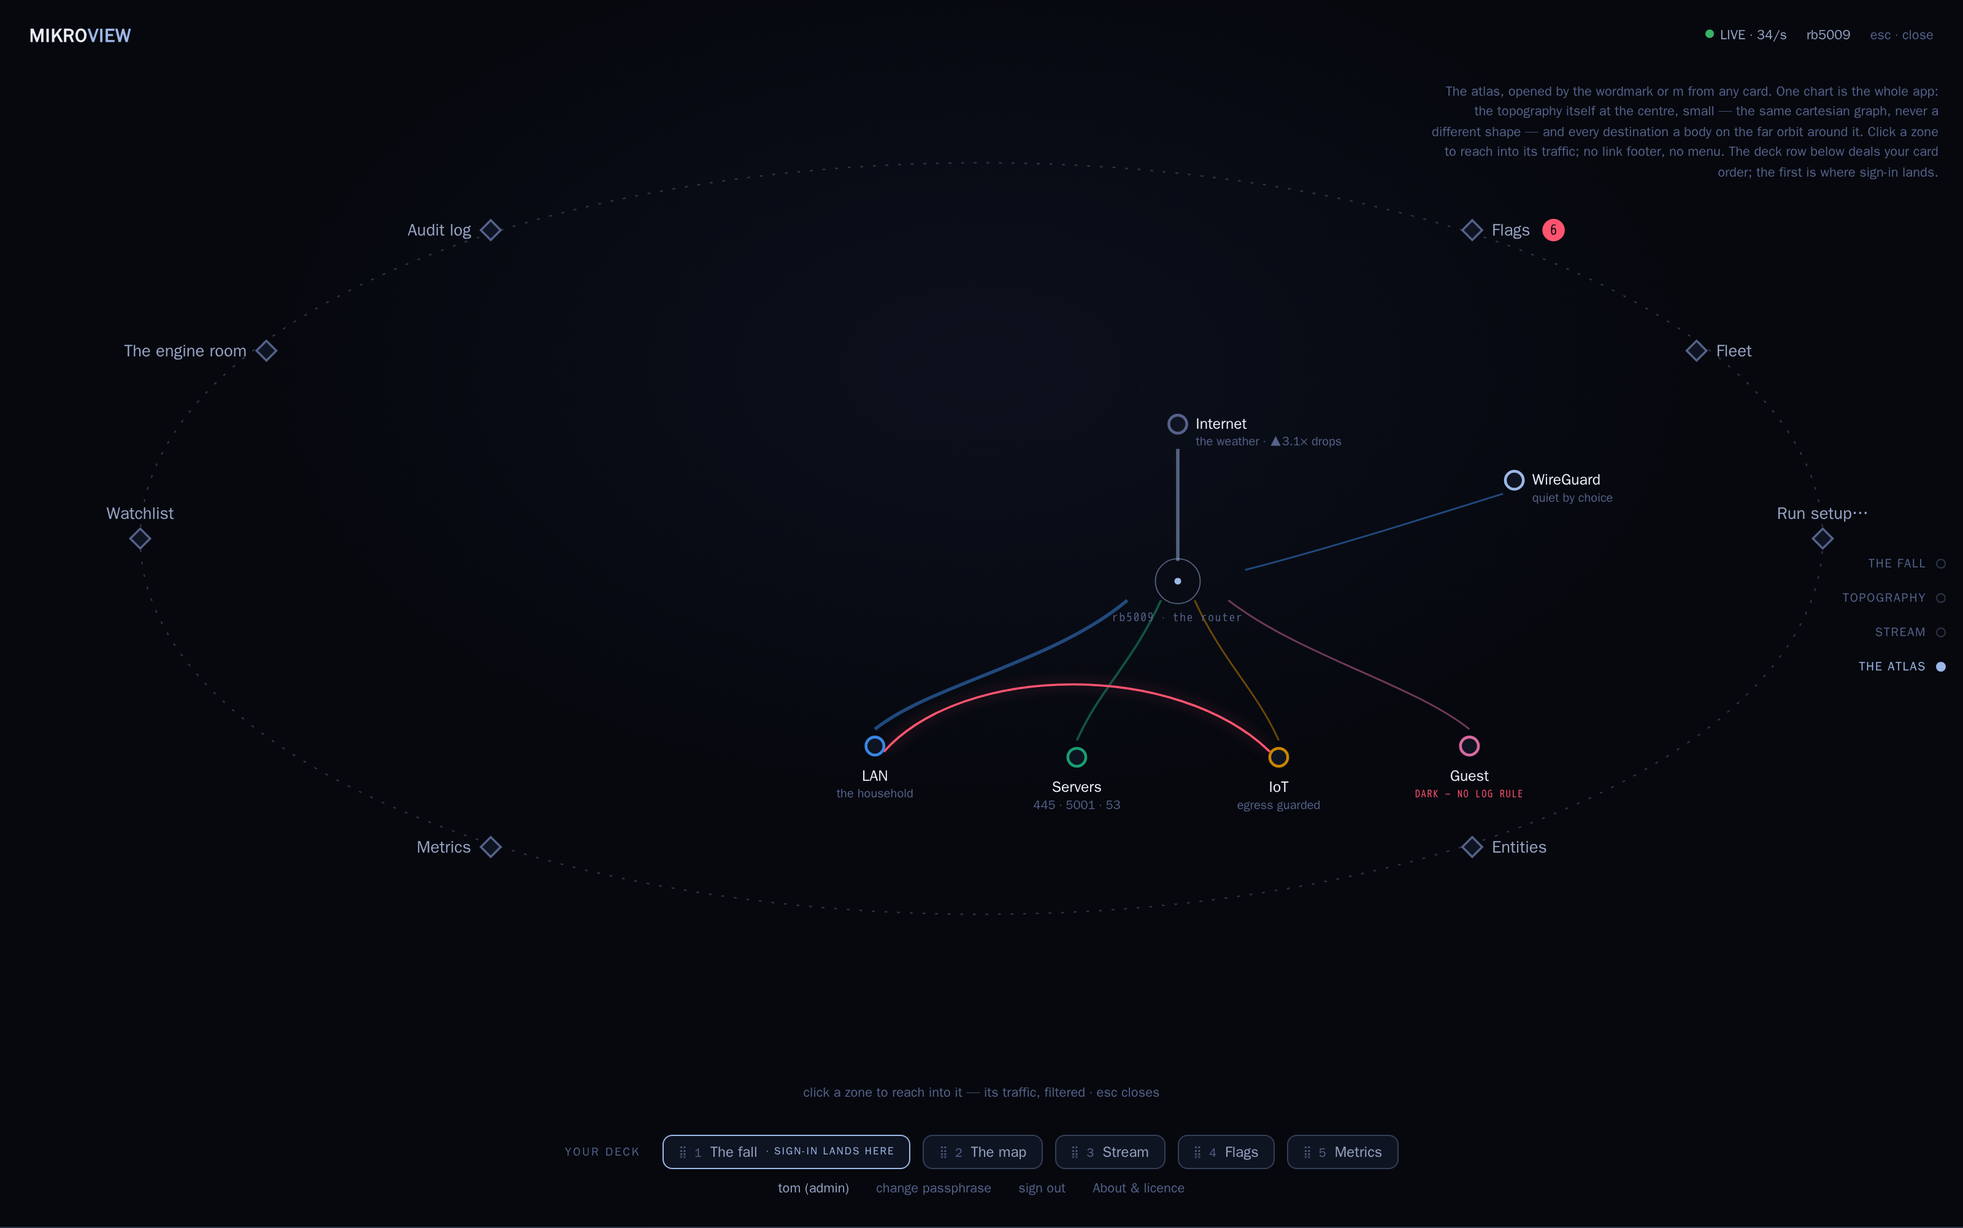
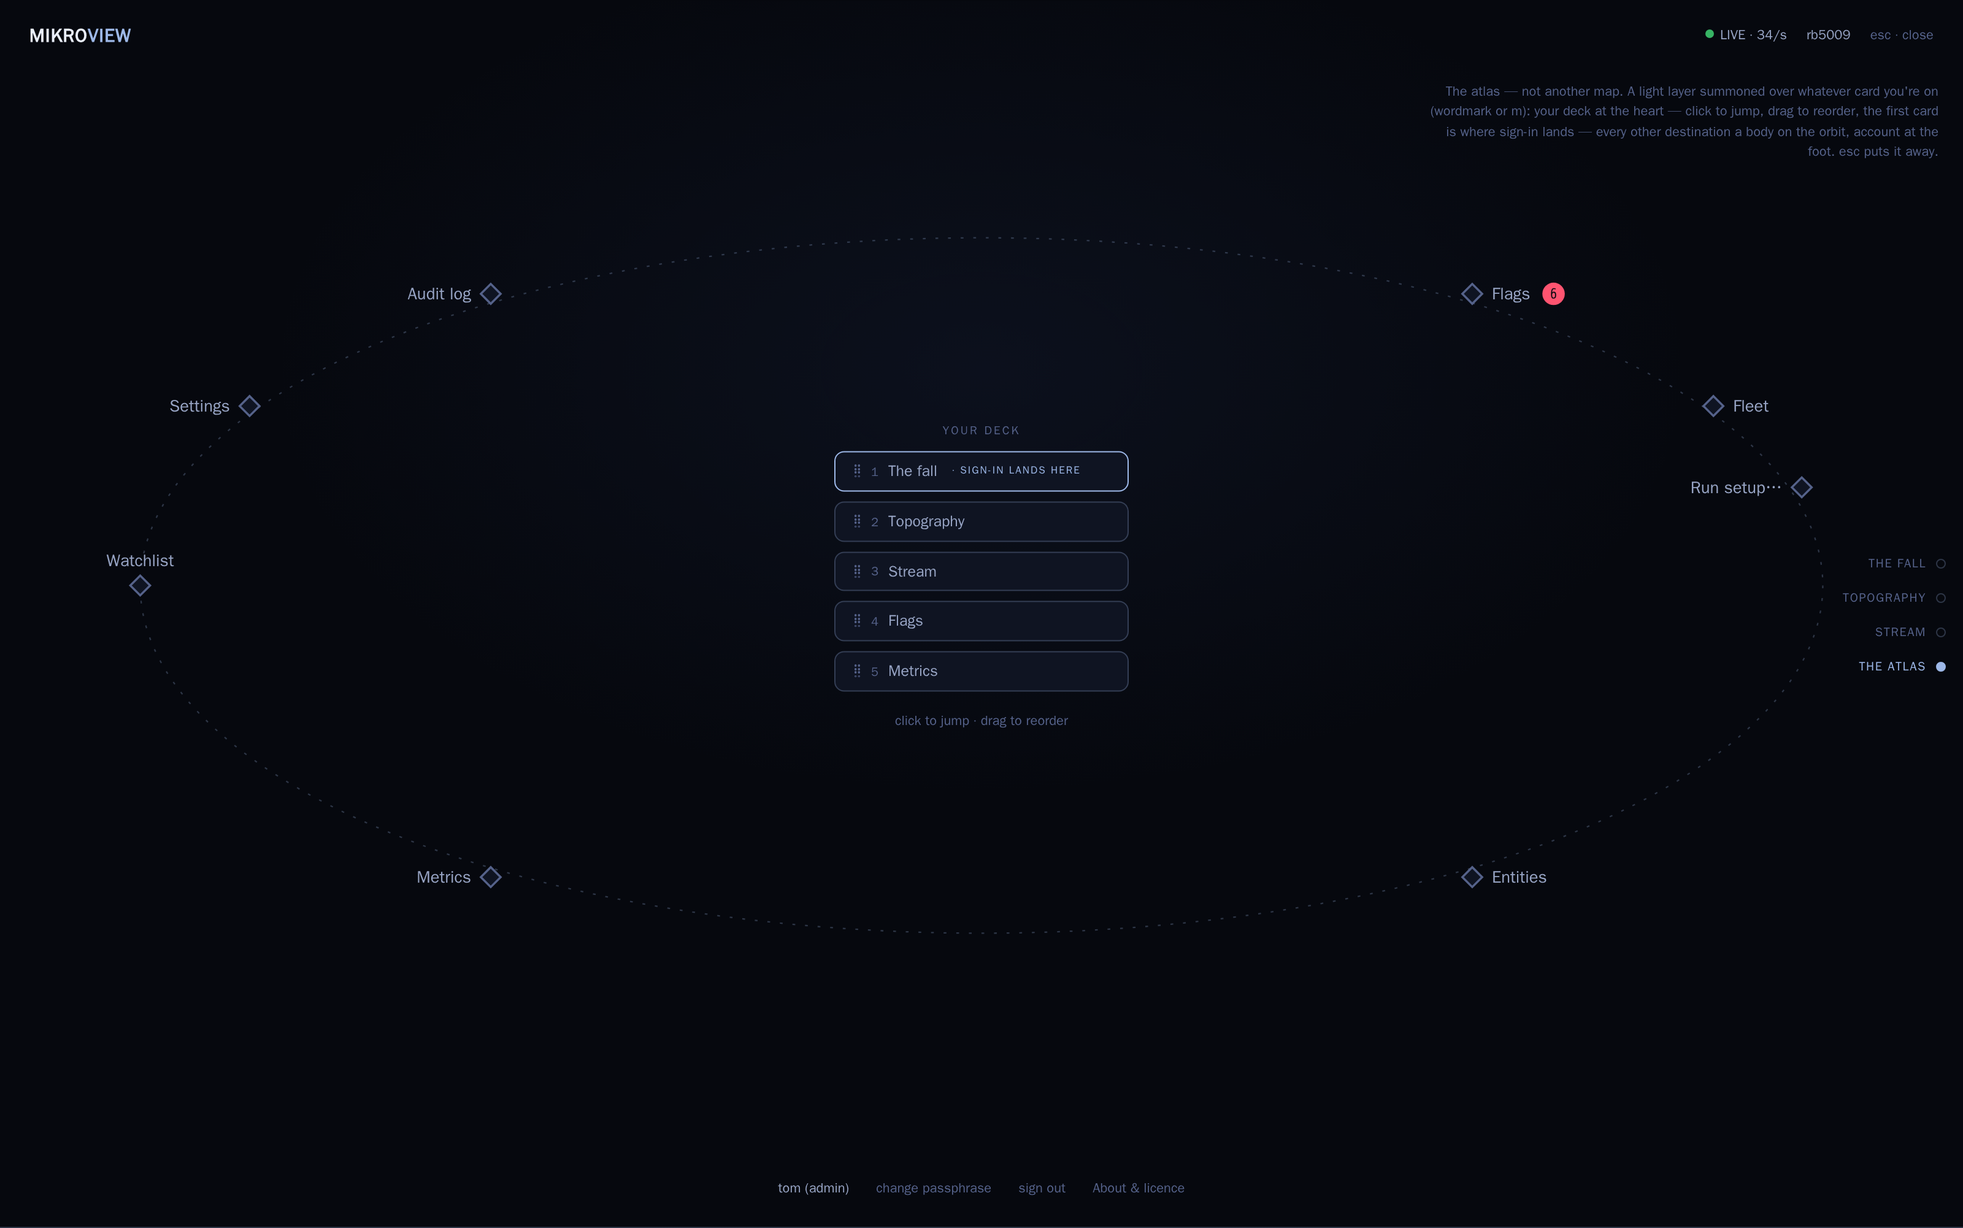
Round 5: organic spokes, map camera, atlas as nav layer, Settings rename (#634)

diff --git a/docs/design/concepts/round-5/the-deck.html b/docs/design/concepts/round-5/the-deck.html
@@ -233,13 +233,18 @@
   .deckrail a.on { color: var(--accent); }
   .deckrail a.on .dot { background: var(--accent); border-color: var(--accent); }
   /* ---- the atlas's deck-order editor ---- */
-  .deckorder { display: flex; gap: 10px; justify-content: center; align-items: center; padding: 12px 0 0; font-size: 12px; color: var(--ink-2); }
-  .deckorder .lab { font-size: 9.5px; letter-spacing: 0.14em; text-transform: uppercase; color: var(--ink-3); margin-right: 8px; }
-  .deckorder .card { display: flex; gap: 7px; align-items: center; border: 1px solid var(--hair-2); border-radius: 8px; padding: 4px 12px; background: var(--raised); cursor: grab; }
-  .deckorder .card .n { color: var(--ink-3); font-size: 10px; }
-  .deckorder .card .grip { color: var(--ink-3); letter-spacing: -1px; }
-  .deckorder .first { border-color: var(--accent); }
-  .deckorder .first .tag { font-size: 8.5px; color: var(--accent); letter-spacing: 0.12em; }
+  .heartdeck {
+    position: absolute; left: 50%; top: 50%; transform: translate(-50%, -50%);
+    display: flex; flex-direction: column; gap: 8px; font-size: 12.5px; color: var(--ink-2);
+    text-align: left; min-width: 240px;
+  }
+  .heartdeck .lab { font-size: 9.5px; letter-spacing: 0.16em; color: var(--ink-3); margin-bottom: 2px; text-align: center; }
+  .heartdeck .card { display: flex; gap: 8px; align-items: center; border: 1px solid var(--hair-2); border-radius: 8px; padding: 6px 14px; background: var(--raised); cursor: grab; }
+  .heartdeck .card .n { color: var(--ink-3); font-size: 10px; }
+  .heartdeck .card .grip { color: var(--ink-3); letter-spacing: -1px; }
+  .heartdeck .first { border-color: var(--accent); }
+  .heartdeck .first .tag { font-size: 8.5px; color: var(--accent); letter-spacing: 0.12em; margin-left: 4px; }
+  .heartdeck .hint { font-size: 9.5px; color: var(--ink-3); text-align: center; margin-top: 2px; }
   .faro-orbit { stroke: var(--hair); }
   .dest .dg { fill: var(--raised); stroke: var(--ink-3); stroke-width: 1.5; transform: rotate(45deg); }
   .dest .dest-l { font: 600 12px var(--sans); fill: var(--ink-2); }
@@ -529,7 +534,7 @@
 
 <!-- ============ SCENE 3 : TOPOGRAPHY — ONE PLACE, TWO VIEWPOINTS, THREE DEPTHS ============ -->
 <section class="scene" id="s3" aria-label="Topography: one cartesian graph; the viewpoint and the depth are yours">
-  <div class="scene-tag" style="top:66px">The topography card. One cartesian graph — Internet above, router at the waist, lanes below — and it stays that graph everywhere: SURVEY just tilts the camera back, same layout, same major links. The DEPTH slider filters detail: zones, services, every client. Both controls really work here.</div>
+  <div class="scene-tag" style="top:66px">The topography card. One cartesian graph — Internet above, router at the waist, lanes below — and it stays that graph everywhere: SURVEY just tilts the camera back, same layout, same major links. The DEPTH slider filters detail: zones, services, every client. All of it really works here — including the camera: mouse wheel zooms the graph, middle-button drag pans it.</div>
   <div class="scenebar">
     <span class="wordmark">MIKRO<em>VIEW</em><span class="hintkey">M · ATLAS</span></span>
     <span class="scname">Topography<span class="epi">your network, drawn from its own rules</span></span>
@@ -553,6 +558,7 @@
   <div class="stage" id="topo" data-lvl="1">
     <svg viewBox="0 0 1400 720" preserveAspectRatio="xMidYMid meet" role="img"
          aria-label="The network as one cartesian graph: internet above, router at the waist, lanes below, clients beneath their lanes. The survey viewpoint tilts the same graph; the depth slider adds services and clients.">
+      <g id="cam">
       <path class="rib" d="M700 104 V 232" stroke="var(--accent)" stroke-width="3.5"/>
       <path class="rib" d="M645 302 C 565 380, 355 410, 285 480" stroke="var(--lan)" stroke-width="3.5"/>
       <path class="rib" d="M683 302 C 653 380, 595 420, 577 480" stroke="var(--srv)" stroke-width="2.4"/>
@@ -672,9 +678,9 @@
 
       <!-- depth 2: every client, hanging beneath its lane -->
       <g class="cli">
-        <line class="spoke" x1="285" y1="596" x2="215" y2="648" stroke="var(--lan)"/>
-        <line class="spoke" x1="285" y1="596" x2="285" y2="652" stroke="var(--lan)"/>
-        <line class="spoke" x1="285" y1="596" x2="355" y2="648" stroke="var(--lan)"/>
+        <path class="spoke" d="M285 596 C 285 622, 215 622, 215 648" fill="none" stroke="var(--lan)"/>
+        <path class="spoke" d="M285 596 C 279 618, 291 630, 285 652" fill="none" stroke="var(--lan)"/>
+        <path class="spoke" d="M285 596 C 285 622, 355 622, 355 648" fill="none" stroke="var(--lan)"/>
         <circle class="c-dot" cx="215" cy="652" r="3.5" fill="var(--lan)"/>
         <circle class="c-dot" cx="285" cy="656" r="3.5" fill="var(--lan)"/>
         <circle class="c-dot" cx="355" cy="652" r="3.5" fill="var(--lan)"/>
@@ -683,9 +689,9 @@
         <text x="355" y="668" text-anchor="middle" class="c-label">laptop-anna</text>
         <text x="285" y="700" text-anchor="middle" class="c-label" style="fill: var(--ink-3)">+ 9 more</text>
 
-        <line class="spoke" x1="577" y1="596" x2="517" y2="648" stroke="var(--srv)"/>
-        <line class="spoke" x1="577" y1="596" x2="577" y2="652" stroke="var(--srv)"/>
-        <line class="spoke" x1="577" y1="596" x2="637" y2="648" stroke="var(--srv)"/>
+        <path class="spoke" d="M577 596 C 577 622, 517 622, 517 648" fill="none" stroke="var(--srv)"/>
+        <path class="spoke" d="M577 596 C 571 618, 583 630, 577 652" fill="none" stroke="var(--srv)"/>
+        <path class="spoke" d="M577 596 C 577 622, 637 622, 637 648" fill="none" stroke="var(--srv)"/>
         <circle class="c-dot" cx="517" cy="652" r="3.5" fill="var(--srv)"/>
         <circle class="c-dot" cx="577" cy="656" r="3.5" fill="var(--srv)"/>
         <circle class="c-dot" cx="637" cy="652" r="3.5" fill="var(--srv)"/>
@@ -693,9 +699,9 @@
         <text x="577" y="682" text-anchor="middle" class="c-label">pihole</text>
         <text x="637" y="668" text-anchor="middle" class="c-label">unifi</text>
 
-        <line class="spoke" x1="848" y1="596" x2="788" y2="648" stroke="var(--iot)"/>
-        <line class="spoke" x1="848" y1="596" x2="848" y2="652" stroke="var(--iot)"/>
-        <line class="spoke" x1="848" y1="596" x2="908" y2="648" stroke="var(--iot)"/>
+        <path class="spoke" d="M848 596 C 848 622, 788 622, 788 648" fill="none" stroke="var(--iot)"/>
+        <path class="spoke" d="M848 596 C 842 618, 854 630, 848 652" fill="none" stroke="var(--iot)"/>
+        <path class="spoke" d="M848 596 C 848 622, 908 622, 908 648" fill="none" stroke="var(--iot)"/>
         <circle class="c-dot" cx="788" cy="652" r="3.5" fill="var(--iot)"/>
         <circle class="c-dot" cx="788" cy="652" r="8" fill="none" stroke="var(--alarm)" stroke-width="1.2" class="halo"/>
         <circle class="c-dot" cx="848" cy="656" r="3.5" fill="var(--iot)"/>
@@ -705,9 +711,10 @@
         <text x="908" y="668" text-anchor="middle" class="c-label">thermostat</text>
         <text x="848" y="700" text-anchor="middle" class="c-label" style="fill: var(--ink-3)">+ 4 more</text>
 
-        <line class="spoke" x1="1116" y1="596" x2="1116" y2="652" stroke="var(--guest)"/>
+        <path class="spoke" d="M1116 596 C 1110 620, 1122 630, 1116 652" fill="none" stroke="var(--guest)"/>
         <circle class="c-dot" cx="1116" cy="656" r="3.5" fill="var(--guest)"/>
         <text x="1116" y="682" text-anchor="middle" class="c-label">guest-e8b2 · +2</text>
+      </g>
       </g>
     </svg>
   </div>
@@ -764,8 +771,8 @@
 </section>
 
 <!-- ============ SCENE 3 : THE ATLAS — THE ONE NAVIGATOR ============ -->
-<section class="scene atlas" id="s5" aria-label="The atlas overlay: the network on orbit, and everywhere the app goes">
-  <div class="scene-tag" style="top:66px">The atlas, opened by the wordmark or <b>m</b> from any card. One chart is the whole app: the topography itself at the centre, small — the same cartesian graph, never a different shape — and every destination a body on the far orbit around it. Click a zone to reach into its traffic; no link footer, no menu. The deck row below deals your card order; the first is where sign-in lands.</div>
+<section class="scene atlas" id="s5" aria-label="The atlas: a light navigation layer — your deck at the heart, every destination on the orbit">
+  <div class="scene-tag" style="top:66px">The atlas — not another map. A light layer summoned over whatever card you're on (wordmark or <b>m</b>): your deck at the heart — click to jump, drag to reorder, the first card is where sign-in lands — every other destination a body on the orbit, account at the foot. esc puts it away.</div>
   <div class="scenebar">
     <span class="wordmark">MIKRO<em>VIEW</em></span>
     <span class="scstatus">
@@ -776,47 +783,26 @@
   </div>
   <div class="chart">
     <svg viewBox="0 0 1400 560" preserveAspectRatio="xMidYMid meet"
-         aria-label="The same topography, small, at the centre of the atlas: internet above, router at the waist, lanes below; destinations on the far orbit around it.">
-      <g transform="translate(140 40) scale(0.8)" style="transform-origin: 700px 280px">
-        <path class="rib" d="M700 150 V 250" stroke="var(--accent)" stroke-width="3"/>
-        <path class="rib" d="M655 285 C 590 340, 480 360, 430 400" stroke="var(--lan)" stroke-width="3"/>
-        <path class="rib" d="M685 285 C 660 340, 630 365, 610 410" stroke="var(--srv)" stroke-width="2"/>
-        <path class="rib" d="M715 285 C 740 340, 770 365, 790 410" stroke="var(--iot)" stroke-width="1.6"/>
-        <path class="rib" d="M745 285 C 810 335, 910 360, 960 400" stroke="var(--guest)" stroke-width="1.6"/>
-        <path class="rib" d="M990 190 C 910 215, 830 240, 760 258" stroke="var(--lan)" stroke-width="1.6"/>
-        <path class="rib-alarm" d="M782 420 C 700 340, 510 340, 438 420"/>
-        <g><circle cx="700" cy="128" r="8" class="zone-dot" style="stroke: var(--ink-3)"/><text x="716" y="132" class="zone-label">Internet</text><text x="716" y="147" class="zone-epithet">the weather · ▲3.1× drops</text></g>
-        <g><circle cx="700" cy="268" r="20" class="station-ring"/><circle cx="700" cy="268" r="3" class="station-core"/><text x="700" y="304" text-anchor="middle" class="station-label">rb5009 · the router</text></g>
-        <g><circle cx="430" cy="415" r="8" class="zone-dot" style="stroke: var(--lan)"/><text x="430" y="446" text-anchor="middle" class="zone-label">LAN</text><text x="430" y="461" text-anchor="middle" class="zone-epithet">the household</text></g>
-        <g><circle cx="610" cy="425" r="8" class="zone-dot" style="stroke: var(--srv)"/><text x="610" y="456" text-anchor="middle" class="zone-label">Servers</text><text x="610" y="471" text-anchor="middle" class="zone-epithet">445 · 5001 · 53</text></g>
-        <g><circle cx="790" cy="425" r="8" class="zone-dot" style="stroke: var(--iot)"/><circle cx="790" cy="425" r="13" fill="none" stroke="var(--alarm)" stroke-width="1.2" class="halo"/><text x="790" y="456" text-anchor="middle" class="zone-label">IoT</text><text x="790" y="471" text-anchor="middle" class="zone-epithet">egress guarded</text></g>
-        <g><circle cx="960" cy="415" r="8" class="zone-dot" style="stroke: var(--guest)"/><text x="960" y="446" text-anchor="middle" class="zone-label">Guest</text><text x="960" y="461" text-anchor="middle" class="zone-state bad">DARK — NO LOG RULE</text></g>
-        <g><circle cx="1000" cy="178" r="8" class="zone-dot" style="stroke: var(--accent)"/><text x="1016" y="182" class="zone-label">WireGuard</text><text x="1016" y="197" class="zone-epithet">quiet by choice</text></g>
-      </g>
-      <!-- The far orbit: everywhere else the app goes. Not a footer of
-           links — destinations are bodies on the atlas's outermost
-           orbit, the same chart language as the zones they sit beyond. -->
-      <g class="faro" aria-label="Destinations, on the far orbit">
-        <ellipse class="orbit faro-orbit" cx="700" cy="280" rx="600" ry="268"/>
-        <g class="dest" transform="translate(350 60)"><rect class="dg" x="-5" y="-5" width="10" height="10"/><text x="-14" y="4" text-anchor="end" class="dest-l">Audit log</text></g>
-        <g class="dest" transform="translate(1050 60)"><rect class="dg" x="-5" y="-5" width="10" height="10"/><text x="14" y="4" class="dest-l">Flags</text><circle cx="58" cy="0" r="8" fill="var(--alarm)"/><text x="58" y="3.5" text-anchor="middle" class="dest-b">6</text></g>
-        <g class="dest" transform="translate(100 280)"><rect class="dg" x="-5" y="-5" width="10" height="10"/><text x="0" y="-14" text-anchor="middle" class="dest-l">Watchlist</text></g>
-        <g class="dest" transform="translate(1300 280)"><rect class="dg" x="-5" y="-5" width="10" height="10"/><text x="0" y="-14" text-anchor="middle" class="dest-l">Run setup…</text></g>
-        <g class="dest" transform="translate(350 500)"><rect class="dg" x="-5" y="-5" width="10" height="10"/><text x="-14" y="4" text-anchor="end" class="dest-l">Metrics</text></g>
-        <g class="dest" transform="translate(1050 500)"><rect class="dg" x="-5" y="-5" width="10" height="10"/><text x="14" y="4" class="dest-l">Entities</text></g>
-        <g class="dest" transform="translate(190 146)"><rect class="dg" x="-5" y="-5" width="10" height="10"/><text x="-14" y="4" text-anchor="end" class="dest-l">The engine room</text></g>
-        <g class="dest" transform="translate(1210 146)"><rect class="dg" x="-5" y="-5" width="10" height="10"/><text x="14" y="4" class="dest-l">Fleet</text></g>
-      </g>
+         aria-label="Destinations on the atlas orbit around your deck">
+      <ellipse class="orbit faro-orbit" cx="700" cy="280" rx="600" ry="248"/>
+      <g class="dest" transform="translate(350 72)"><rect class="dg" x="-5" y="-5" width="10" height="10"/><text x="-14" y="4" text-anchor="end" class="dest-l">Audit log</text></g>
+      <g class="dest" transform="translate(1050 72)"><rect class="dg" x="-5" y="-5" width="10" height="10"/><text x="14" y="4" class="dest-l">Flags</text><circle cx="58" cy="0" r="8" fill="var(--alarm)"/><text x="58" y="3.5" text-anchor="middle" class="dest-b">6</text></g>
+      <g class="dest" transform="translate(100 280)"><rect class="dg" x="-5" y="-5" width="10" height="10"/><text x="0" y="-14" text-anchor="middle" class="dest-l">Watchlist</text></g>
+      <g class="dest" transform="translate(1285 210)"><rect class="dg" x="-5" y="-5" width="10" height="10"/><text x="-14" y="4" text-anchor="end" class="dest-l">Run setup…</text></g>
+      <g class="dest" transform="translate(350 488)"><rect class="dg" x="-5" y="-5" width="10" height="10"/><text x="-14" y="4" text-anchor="end" class="dest-l">Metrics</text></g>
+      <g class="dest" transform="translate(1050 488)"><rect class="dg" x="-5" y="-5" width="10" height="10"/><text x="14" y="4" class="dest-l">Entities</text></g>
+      <g class="dest" transform="translate(178 152)"><rect class="dg" x="-5" y="-5" width="10" height="10"/><text x="-14" y="4" text-anchor="end" class="dest-l">Settings</text></g>
+      <g class="dest" transform="translate(1222 152)"><rect class="dg" x="-5" y="-5" width="10" height="10"/><text x="14" y="4" class="dest-l">Fleet</text></g>
     </svg>
-  </div>
-  <p class="hint">click a zone to reach into it — its traffic, filtered · esc closes</p>
-  <div class="deckorder" aria-label="Your deck, in your order">
-    <span class="lab">Your deck</span>
-    <span class="card first"><span class="grip">⠿</span><span class="n">1</span>The fall<span class="tag">· SIGN-IN LANDS HERE</span></span>
-    <span class="card"><span class="grip">⠿</span><span class="n">2</span>The map</span>
-    <span class="card"><span class="grip">⠿</span><span class="n">3</span>Stream</span>
-    <span class="card"><span class="grip">⠿</span><span class="n">4</span>Flags</span>
-    <span class="card"><span class="grip">⠿</span><span class="n">5</span>Metrics</span>
+    <div class="heartdeck" aria-label="Your deck, in your order">
+      <span class="lab">YOUR DECK</span>
+      <span class="card first"><span class="grip">⠿</span><span class="n">1</span>The fall<span class="tag">· SIGN-IN LANDS HERE</span></span>
+      <span class="card"><span class="grip">⠿</span><span class="n">2</span>Topography</span>
+      <span class="card"><span class="grip">⠿</span><span class="n">3</span>Stream</span>
+      <span class="card"><span class="grip">⠿</span><span class="n">4</span>Flags</span>
+      <span class="card"><span class="grip">⠿</span><span class="n">5</span>Metrics</span>
+      <span class="hint">click to jump · drag to reorder</span>
+    </div>
   </div>
   <div class="account"><b>tom (admin)</b><span>change passphrase</span><span>sign out</span><span>About &amp; licence</span></div>
 </section>
@@ -832,6 +818,30 @@
   // Round apparatus + the deck's one live behaviour: mark the card in view.
   const links = [...document.querySelectorAll('.deckrail a')]
   const byId = Object.fromEntries(links.map(a => [a.getAttribute('href').slice(1), a]))
+  // The topography owns the pointer over its card (owner, 2026-08-30):
+  // wheel zooms the graph, middle-button drag pans it. Deliberately
+  // captures the wheel from the deck snap while over the map.
+  {
+    const topo = document.getElementById('topo')
+    const cam = document.getElementById('cam')
+    let z = 1, tx = 0
+    const apply = () => cam.setAttribute('transform',
+      `translate(${700 * (1 - z) + tx} ${360 * (1 - z)}) scale(${z})`)
+    topo.addEventListener('wheel', (e) => {
+      e.preventDefault()
+      z = Math.min(3, Math.max(0.6, z * (e.deltaY < 0 ? 1.12 : 0.89)))
+      apply()
+    }, { passive: false })
+    topo.addEventListener('mousedown', (e) => {
+      if (e.button !== 1) return
+      e.preventDefault()
+      const x0 = e.clientX, t0 = tx
+      const mv = (ev) => { tx = t0 + (ev.clientX - x0) * (1400 / topo.clientWidth); apply() }
+      const up = () => { window.removeEventListener('mousemove', mv); window.removeEventListener('mouseup', up) }
+      window.addEventListener('mousemove', mv)
+      window.addEventListener('mouseup', up)
+    })
+  }
   const io = new IntersectionObserver(es => es.forEach(e => {
     if (e.isIntersecting && byId[e.target.id]) {
       links.forEach(a => a.classList.remove('on'))

diff --git a/docs/design/concepts/round-5/README.md b/docs/design/concepts/round-5/README.md
@@ -135,6 +135,24 @@ apparatus, not design.
   "once a user has learned what it means, they never really need it
   again."
 
+## The owner's fifth batch (2026-08-30)
+
+- **Straight lines rejected**: the client spokes clashed with the
+  organic links — redrawn as the same bezier language as the ribs.
+- **The camera is the operator's**: mouse wheel zooms the topography,
+  middle-button drag pans it; the map owns the wheel over its card.
+- **The atlas demystified**: the owner: "It's basically the same thing
+  as the map, but it has the added navigation pieces." Confusion
+  acknowledged as real duplication — the atlas drops its chart
+  entirely and becomes a light navigation layer: your deck at the
+  heart (click to jump, drag to reorder), every other destination on
+  the orbit, account at the foot.
+- **"The engine room" renamed "Settings"** (applies to the app, not
+  just the round).
+- **The theme control is unlabelled** — read as: the theme switcher
+  ships as a quiet control, no "Theme" text label (interpretation
+  pending owner confirmation).
+
 ## Owner verdicts
 
 - Door: v3 standing (v2 accepted + full-screen fall, boxed wordmark).
